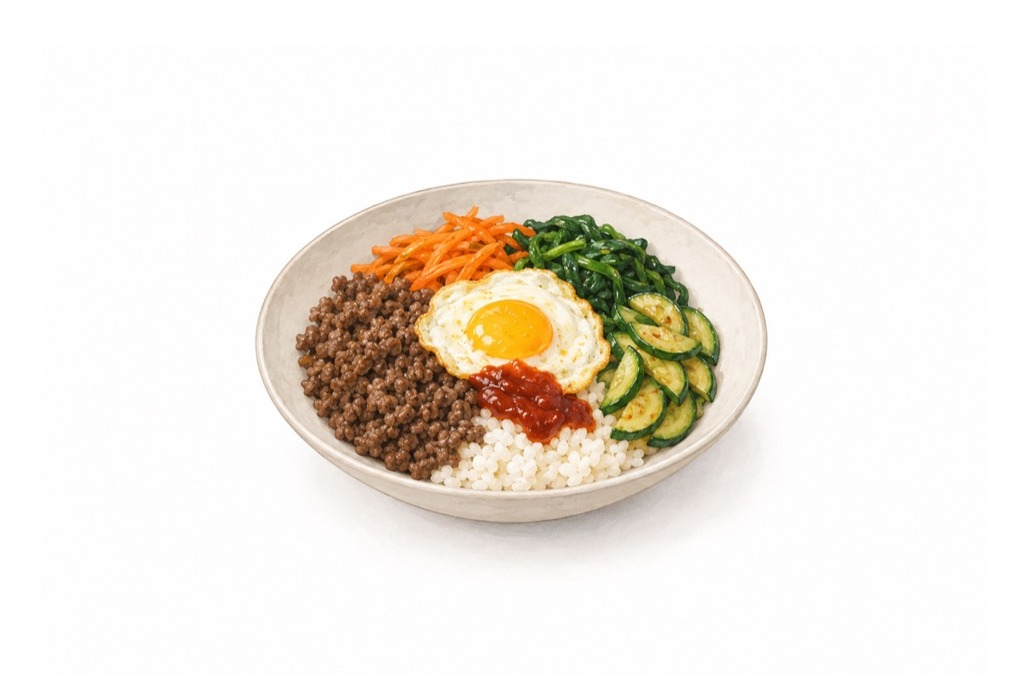
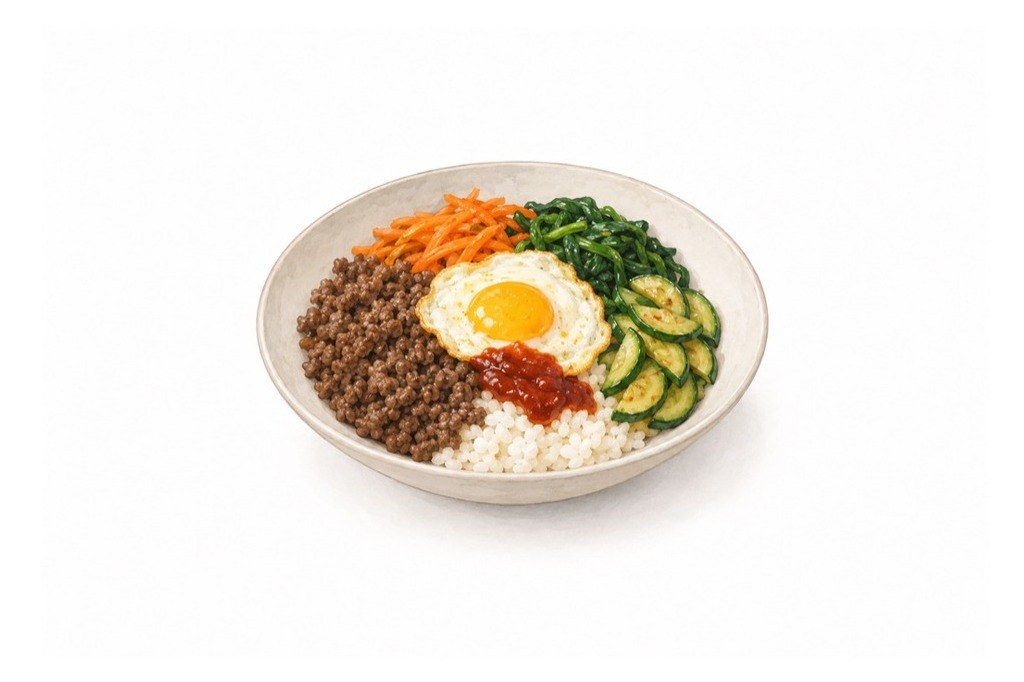
feat(meal-images): Centre the drawing vertically, not the rim (HON-1031)
HON-1024 put the rim row on the frame's centre line. Each planner card
has its own image box, so a tall stack sat high in its card and a deep
bowl, whose widest row is near its top, hung below the centre. The fit
now places the vertical centre of the ink bounding box on the centre
line. The rim still sets the scale and the horizontal centre, so a side
item does not push the plate aside.

The view sent to the vision call keeps the rim anchor, so the size
estimates the post-merge refit sees are unchanged and only the position
moves. The refit sheet copy names the drawing's centre line.

The three landing illustrations are refitted at scale 1 (box centres
were 3.5 to 18.5 px low on a 682 px frame), and the avocado toast hue
is re-extracted as 103, since the move changes what the centre crop sees.

Changed region(s): [[0.25, 0.2155, 0.75, 0.8006]]

diff --git a/src/lib/meal-images/footprint.test.ts b/src/lib/meal-images/footprint.test.ts
@@ -48,7 +48,7 @@ async function frameWith(...rects: Rect[]): Promise<Uint8Array> {
   return new Uint8Array(png)
 }
 
-/** A 180 px rim (0.60 of 300) on rows 50–149, so the rim row is 100 — the frame's centre line. */
+/** A 180 px rim (0.60 of 300) on rows 50–149, so the rim row and the box's centre are 100 — the frame's centre line. */
 const fp = (overrides: Partial<Footprint> = {}): Footprint => ({
   left: 60,
   right: 239,
@@ -67,6 +67,21 @@ const rimCentre = (f: Footprint) => ({
   x: (f.rimLeft + f.rimRight + 1) / 2 / f.frameWidth,
   y: f.rimRow / f.frameHeight,
 })
+
+/** The bounding box's vertical centre in pixels. */
+const boxCentreY = (f: Footprint) => (f.top + f.bottom + 1) / 2
+
+/** A stack 100 px tall on a 20 px plate, drawn high: the box's centre is row 80, the rim row 130. */
+const tallStack: Rect[] = [
+  { left: 120, top: 20, width: 60, height: 100 },
+  { left: 60, top: 120, width: 180, height: 20 },
+]
+
+/** A 10 px rim on a body 120 px deep: the rim sits near the top of the box. */
+const deepBowl: Rect[] = [
+  { left: 60, top: 30, width: 180, height: 10 },
+  { left: 90, top: 40, width: 120, height: 120 },
+]
 
 describe('HON-1024: footprint measurement', () => {
   it('measures a rectangle on white to the pixel, with the rim on its middle row', async () => {
@@ -190,7 +205,7 @@ describe('HON-1024: fit plan', () => {
     }
   })
 
-  it('keeps an image whose rim is within 3.5% of the target width and on the centre line', () => {
+  it('keeps an image whose rim is within 3.5% of the target width and whose box is on the centre line', () => {
     // 174 px = 0.58 exactly; 175 px is 0.6% off and 180 px 3.4%, a 1 cm move of the estimate.
     expect(planFit(fp({ left: 63, right: 237, rimLeft: 63, rimRight: 237 }), dinnerPlate)).toEqual({
       action: 'keep',
@@ -204,10 +219,23 @@ describe('HON-1024: fit plan', () => {
     })
   })
 
-  it('moves a rim at the right width that sits off the centre line', () => {
-    // Right width, but the rim is at 45% of the frame height.
-    const off = fp({ left: 63, right: 237, rimLeft: 63, rimRight: 237, rimRow: 90, top: 40 })
+  it('moves a drawing at the right width whose box sits off the centre line', () => {
+    // Right width, but the box's centre is at 45% of the frame height.
+    const off = fp({ left: 63, right: 237, rimLeft: 63, rimRight: 237, top: 40, bottom: 139 })
     expect(planFit(off, dinnerPlate)).toEqual({ action: 'fit', scale: 0.58 / 0.5833333333333334 })
+  })
+
+  it('judges the position by the box, not the rim (HON-1031)', () => {
+    const rightWidth = { left: 63, right: 237, rimLeft: 63, rimRight: 237 }
+    // The rim far below the centre line, the box on it: already fitted.
+    expect(planFit(fp({ ...rightWidth, rimRow: 140 }), dinnerPlate)).toEqual({
+      action: 'keep',
+      reason: 'already fitted',
+    })
+    // The rim on the centre line, the box 10 px above it: moved.
+    expect(planFit(fp({ ...rightWidth, top: 30, bottom: 149 }), dinnerPlate)).toMatchObject({
+      action: 'fit',
+    })
   })
 
   it('skips a blank frame, a cropped vessel and a scale out of range', () => {
@@ -248,10 +276,17 @@ describe('HON-1024: canonicalForEstimate', () => {
     )
     expect((await canonicalForEstimate(blank, 'image/png')).bytes).toBe(blank)
   })
+
+  it('keeps the rim, not the box, on the centre line, so the size estimate is unchanged by HON-1031', async () => {
+    const shown = await canonicalForEstimate(await frameWith(...tallStack), 'image/png')
+    const f = (await measureFootprint(shown.bytes))!
+    expect(Math.abs(rimCentre(f).y - 0.5)).toBeLessThan(0.01)
+    expect(boxCentreY(f)).toBeLessThan(H / 2 - 10)
+  })
 })
 
 describe('HON-1024: fitFootprint', () => {
-  it('shrinks a wide plate to its width, its rim on the centre line, on a white frame of the same size', async () => {
+  it('shrinks a wide plate to its width, centred, on a white frame of the same size', async () => {
     // 210 px = 0.70, off-centre to the left and the top.
     const bytes = await frameWith({ left: 20, top: 30, width: 210, height: 100 })
 
@@ -272,9 +307,10 @@ describe('HON-1024: fitFootprint', () => {
     const after = await measureFootprint(fitted.bytes)
     expect(after).not.toBeNull()
     expect(rimWidth(after!)).toBeCloseTo(0.58, 2)
-    // The rim's centre on the frame's centre, wherever it was drawn.
+    // The rim's centre on the frame's vertical centre line and the box's
+    // centre on its horizontal one, wherever it was drawn.
     expect(rimCentre(after!).x).toBeCloseTo(0.5, 2)
-    expect(rimCentre(after!).y).toBeCloseTo(0.5, 2)
+    expect(Math.abs(boxCentreY(after!) - H / 2)).toBeLessThanOrEqual(1)
     // The padding is white: the corner pixel is untouched.
     const { data } = await sharp(fitted.bytes).raw().toBuffer({ resolveWithObject: true })
     expect([data[0], data[1], data[2]]).toEqual([255, 255, 255])
@@ -291,19 +327,24 @@ describe('HON-1024: fitFootprint', () => {
     expect(rimWidth((await measureFootprint(side.bytes))!)).toBeCloseTo(0.47, 2)
   })
 
-  it('anchors a tall dish by its rim, so the food rises above the centre line', async () => {
-    // A stack 100 px tall on a 20 px plate: as drawn, the box is centred and the plate sits low.
-    const bytes = await frameWith(
-      { left: 120, top: 40, width: 60, height: 100 },
-      { left: 60, top: 140, width: 180, height: 20 },
-    )
+  it.each([
+    ['a tall stack, its ink far above the rim', tallStack],
+    ['a deep bowl, its ink far below the rim', deepBowl],
+  ])('centres %s by its box, not its rim (HON-1031)', async (_, rects) => {
+    const bytes = await frameWith(...rects)
+    for (const estimate of [dinnerPlate, sidePlate]) {
+      const fitted = await fitFootprint(bytes, 'image/png', estimate)
+      expect(fitted.fit.action).toBe('fit')
 
-    const fitted = await fitFootprint(bytes, 'image/png', dinnerPlate)
+      const after = (await measureFootprint(fitted.bytes))!
+      expect(Math.abs(boxCentreY(after) - H / 2)).toBeLessThanOrEqual(1)
+      expect(rimCentre(after).x).toBeCloseTo(0.5, 2)
+      // The rim still sets the scale.
+      expect(rimWidth(after)).toBeCloseTo(targetWidth(estimate)!, 2)
 
-    const after = await measureFootprint(fitted.bytes)
-    // Within 1% of the frame: a 20 px rim anchors on its middle row, give or take a pixel.
-    expect(Math.abs(rimCentre(after!).y - 0.5)).toBeLessThan(0.01)
-    expect(after!.top / H).toBeLessThan(0.3)
+      const twice = await fitFootprint(fitted.bytes, 'image/png', estimate)
+      expect(twice.fit).toMatchObject({ action: 'keep', reason: 'already fitted' })
+    }
   })
 
   it('enlarges a narrow bowl, cutting what overhangs the frame', async () => {

diff --git a/src/lib/meal-images/footprint.ts b/src/lib/meal-images/footprint.ts
@@ -19,10 +19,12 @@ import type { Vessel, VesselEstimate } from './vessel'
  *
  * The surface is pure white by design (HON-744), so the image can be
  * rescaled about the vessel's rim and padded with white after generation,
- * with no seam. The rim is the anchor, not the drawing's bounding box: the
- * widest row of ink is the rim's horizontal diameter, and it is placed on
- * the frame's centre line, so a tall stack of pancakes rises from the same
- * table level as a flat omelette.
+ * with no seam. The rim sets the scale and the horizontal centre: the
+ * widest row of ink is the rim's horizontal diameter. The vertical centre
+ * is the drawing's bounding box, placed on the frame's centre line
+ * (HON-1031). The rim on that line kept one table level across dishes, but
+ * each card has its own image box, so a tall stack sat high in its card and
+ * a deep bowl, whose widest row is near its top, hung below the centre.
  *
  * The camera's elevation is measured from the rim's front half-ellipse and
  * reported, not corrected: the model picks it per dish (a sandwich is drawn
@@ -61,8 +63,14 @@ export interface FootprintOptions {
   scale: FootprintScale
   /** The vessels that are fitted; any other is left as drawn. */
   fitted: readonly Vessel[]
-  /** Where the rim's horizontal diameter sits, as a fraction of the frame height. */
+  /** Where the vertical anchor sits, as a fraction of the frame height. */
   anchorY: number
+  /**
+   * What is placed at `anchorY`: the centre of the drawing's bounding box,
+   * or the rim's row. The fit uses the box (HON-1031); the view for the
+   * vision call keeps the rim, so its size estimate is unchanged.
+   */
+  anchor: 'box' | 'rim'
   /**
    * A scale outside this range says the footprint is not the vessel: a rim
    * too pale to count would measure only the food and ask for ×1.4 or more.
@@ -77,7 +85,7 @@ export interface FootprintOptions {
    * images for nothing; a 2 cm move still refits.
    */
   tolerance: number
-  /** A rim this close to its anchor, as a fraction of the frame, is not worth a move. */
+  /** A drawing this close to its anchor, as a fraction of the frame, is not worth a move. */
   positionTolerance: number
 }
 
@@ -102,6 +110,7 @@ export const DEFAULT_FOOTPRINT_OPTIONS: FootprintOptions = {
   scale: FOOTPRINT_SCALE,
   fitted: ['plate', 'bowl'],
   anchorY: 0.5,
+  anchor: 'box',
   minScale: 0.7,
   maxScale: 1.2,
   tolerance: 0.035,
@@ -137,6 +146,9 @@ export async function canonicalForEstimate(
   const reference = { vessel: 'plate', diameterCm: options.scale.referenceCm } as const
   const fitted = await fitFootprint(bytes, mediaType, reference, {
     ...options,
+    // The rim on the centre line, as in HON-1024: the view only feeds the
+    // size estimate, and an unchanged view keeps the estimate unchanged.
+    anchor: 'rim',
     // Any width is canonical here, so a cropped or odd drawing is still sent.
     minScale: 0.25,
     maxScale: 4,
@@ -266,11 +278,16 @@ export type FitDecision =
       reason: 'nothing drawn' | 'the footprint touches the frame edge' | 'scale out of range'
     }
 
-/** Where the rim's centre lands after `scale`, and where it should be, in pixels. */
-function rimOffset(fp: Footprint, scale: number, options: FootprintOptions) {
+/**
+ * How far to move the image after `scale`, in pixels: the rim's centre to the
+ * frame's centre horizontally, so a side item does not push the plate aside,
+ * and the anchor to `anchorY` vertically.
+ */
+function anchorOffset(fp: Footprint, scale: number, options: FootprintOptions) {
   const cx = (fp.rimLeft + fp.rimRight + 1) / 2
+  const cy = options.anchor === 'rim' ? fp.rimRow : (fp.top + fp.bottom + 1) / 2
   const dx = fp.frameWidth / 2 - cx * scale
-  const dy = fp.frameHeight * options.anchorY - fp.rimRow * scale
+  const dy = fp.frameHeight * options.anchorY - cy * scale
   return { dx, dy }
 }
 
@@ -296,9 +313,9 @@ export function planFit(
   if (scale < options.minScale || scale > options.maxScale) {
     return { action: 'skip', reason: 'scale out of range' }
   }
-  // "Already fitted" is judged as drawn: a rim at the anchor would still
+  // "Already fitted" is judged as drawn: a drawing at the anchor would still
   // move by its centre times (1 - scale) if the near-1 scale were applied.
-  const { dx, dy } = rimOffset(footprint, 1, options)
+  const { dx, dy } = anchorOffset(footprint, 1, options)
   if (
     Math.abs(scale - 1) <= options.tolerance &&
     Math.abs(dx) <= options.positionTolerance * footprint.frameWidth &&
@@ -334,8 +351,9 @@ export interface FittedImage {
 
 /**
  * Scale the image about its rim so the rim is the width its vessel's size
- * calls for, and place the rim's centre on the frame's centre line, on a
- * white canvas of the original size. The result is a PNG whatever came in.
+ * calls for, and centre the drawing in the frame: the rim's centre
+ * horizontally, the bounding box's centre vertically, on a white canvas of
+ * the original size. The result is a PNG whatever came in.
  * An image that is left as drawn comes back as it was, bytes and media type
  * both.
  */
@@ -374,7 +392,7 @@ export async function fitFootprint(
   const { frameWidth: W, frameHeight: H } = footprint
   const scaledW = Math.max(1, Math.round(W * scale))
   const scaledH = Math.max(1, Math.round(H * scale))
-  const { dx, dy } = rimOffset(footprint, scale, options)
+  const { dx, dy } = anchorOffset(footprint, scale, options)
   const left = Math.round(dx)
   const top = Math.round(dy)
 

diff --git a/scripts/refit-meal-images.ts b/scripts/refit-meal-images.ts
@@ -247,8 +247,9 @@ export const fileNameFor = (image: RefitImage): string => {
 
 /**
  * Every image as a before/after pair, each under dashed guides at the
- * width its vessel's size calls for and the rim's centre line, so a plate
- * that still misses them is seen at once. The "after" of an image left as drawn is the stored URL again.
+ * width its vessel's size calls for and the frame's centre line, where the
+ * drawing's vertical centre belongs (HON-1031), so a plate that still
+ * misses them is seen at once. The "after" of an image left as drawn is the stored URL again.
  */
 export function renderSheet(
   images: RefitImage[],
@@ -296,7 +297,7 @@ figcaption{font-size:12px;color:#555;padding:4px 0 0}
 pre{background:#fff;border:1px solid #ddd;padding:12px;display:inline-block}
 </style></head><body>
 <h1>Meal footprints — as drawn and fitted</h1>
-<p>Run ${esc(meta.startedAt)}. ${images.length} stored image(s); ${rescaled(images).length} refit; ${failed.length} could not be read or classified. Dashed guides mark the width each vessel's size calls for, and the rim's centre line.</p>
+<p>Run ${esc(meta.startedAt)}. ${images.length} stored image(s); ${rescaled(images).length} refit; ${failed.length} could not be read or classified. Dashed guides mark the width each vessel's size calls for, and the centre line the drawing is centred on.</p>
 <pre>${esc(meta.summary)}</pre>
 ${failed.length > 0 ? `<p>Not fitted: ${failed.map((i) => esc(i.meals.map((m) => m.name).join(', '))).join('; ')}</p>` : ''}
 <div class="grid">

diff --git a/src/components/landing/LandingShowcase.tsx b/src/components/landing/LandingShowcase.tsx
@@ -17,7 +17,7 @@ import type { MealType, ProteinType } from '@/generated/prisma/enums'
  * The three illustrations are copies of generated meal images, committed under
  * `public/landing/` so the page never depends on a household's data or a blob
  * store. Their hues are what `extractHue` returns for these files (re-extracted
- * for HON-1009's rule), so the cards tint exactly as they do in the app. Names and descriptions come from the catalog,
+ * for HON-1009's rule, and after HON-1031's refit), so the cards tint exactly as they do in the app. Names and descriptions come from the catalog,
  * so an Estonian visitor reads an Estonian day.
  */
 const SHOWCASE_MEALS: ReadonlyArray<{
@@ -32,7 +32,7 @@ const SHOWCASE_MEALS: ReadonlyArray<{
     mealType: 'breakfast',
     proteinType: 'eggs',
     imageUrl: '/landing/avocado-toast-poached-egg.jpg',
-    imageHue: 104,
+    imageHue: 103,
   },
   {
     key: 'lunch',

diff --git a/docs/DEPLOYMENT.md b/docs/DEPLOYMENT.md
@@ -298,17 +298,17 @@ pnpm meal-images:rehue --confirm
 
 ### Meal footprint backfill
 
-Every vessel in a meal illustration is drawn to one scale: a 27 cm dinner plate is 0.58 of the frame width and a smaller vessel narrower by its diameter, with the rim's centre line at mid-height ([DESIGN.md → Imagery](DESIGN.md#imagery)). `generateMealImage` fits each image it keeps: a `REVIEW_MODEL` vision call names the vessel and estimates its diameter from the food on it, and `src/lib/meal-images/footprint.ts` scales the drawing about the rim and pads it with white (HON-1024). Images stored before that, or before a change to `FOOTPRINT_SCALE`, keep the width they were drawn at until `scripts/refit-meal-images.ts` refits them from the stored file. Nothing is regenerated, so the only AI spend is the vessel samples, about $0.018 per distinct image; it needs `ANTHROPIC_API_KEY`. It reads every meal with `imageStatus = ready` and an `imageUrl`, fetches each distinct image once (a household's copy of a global meal shares its image), and leaves an image it cannot read or classify as it is. The size estimate is not stored, so a rerun asks again. The model is shown every image with its rim at one width, so the answer does not depend on what the last fit did, and it is asked three times and settled on the median, because one answer moved by 2 cm between runs on a fifth of the images. Between two reruns on 51 images the median moved on 6, four of them by 1 cm, which is inside the fit's tolerance; a 2 cm move refits the image by a few percent.
+Every vessel in a meal illustration is drawn to one scale: a 27 cm dinner plate is 0.58 of the frame width and a smaller vessel narrower by its diameter, with the drawing centred top to bottom ([DESIGN.md → Imagery](DESIGN.md#imagery)). `generateMealImage` fits each image it keeps: a `REVIEW_MODEL` vision call names the vessel and estimates its diameter from the food on it, and `src/lib/meal-images/footprint.ts` scales the drawing about the rim and pads it with white (HON-1024). Images stored before that, or before a change to `FOOTPRINT_SCALE`, keep the width they were drawn at until `scripts/refit-meal-images.ts` refits them from the stored file. Nothing is regenerated, so the only AI spend is the vessel samples, about $0.018 per distinct image; it needs `ANTHROPIC_API_KEY`. It reads every meal with `imageStatus = ready` and an `imageUrl`, fetches each distinct image once (a household's copy of a global meal shares its image), and leaves an image it cannot read or classify as it is. The size estimate is not stored, so a rerun asks again. The model is shown every image with its rim at one width, so the answer does not depend on what the last fit did, and it is asked three times and settled on the median, because one answer moved by 2 cm between runs on a fifth of the images. Between two reruns on 51 images the median moved on 6, four of them by 1 cm, which is inside the fit's tolerance; a 2 cm move refits the image by a few percent.
 
 **When to run it:** after a change to the scale or to the measurement, on staging and then production. Meals drawn after the change are already fitted. Running it twice is a no-op: a fitted image measures at its target and is kept.
 
-**1. Dry run (writes nothing).** Writes the fitted files and a contact sheet to `.temp/meal-footprints/<timestamp>/index.html`: each image as drawn and as fitted, under dashed guides at the width its size calls for and the rim line, with the vessel and its diameter on each card, plus a per-vessel summary of the sizes, how many images move and the range of camera elevations the plates were drawn at.
+**1. Dry run (writes nothing).** Writes the fitted files and a contact sheet to `.temp/meal-footprints/<timestamp>/index.html`: each image as drawn and as fitted, under dashed guides at the width its size calls for and the frame's centre line, with the vessel and its diameter on each card, plus a per-vessel summary of the sizes, how many images move and the range of camera elevations the plates were drawn at.
 
 ```bash
 pnpm meal-images:refit
 ```
 
-**2. Review.** Open the sheet. Every vessel fills its guides with its rim on the horizontal line, and a side plate's guides are narrower than a dinner plate's. Check the diameter on a card that looks wrong for its food: a bagel sits on a 20 to 24 cm plate, a shakshuka on 26 to 27. The camera elevation on each plate's card is reported, not corrected: a plate far from the others (most sit between 35° and 44°) can only be redrawn.
+**2. Review.** Open the sheet. Every vessel fills its guides with the drawing centred on the horizontal line, and a side plate's guides are narrower than a dinner plate's. Check the diameter on a card that looks wrong for its food: a bagel sits on a 20 to 24 cm plate, a shakshuka on 26 to 27. The camera elevation on each plate's card is reported, not corrected: a plate far from the others (most sit between 35° and 44°) can only be redrawn.
 
 **3. Write, on staging and then production.** Point the environment at the target: its `DATABASE_URL`, plus Blob credentials for the **same** environment, exactly as for a publish (above). It checks the Blob credentials, asks for the database host to be typed back (`--yes=<host>` does the same non-interactively), then for each rescaled image uploads the fitted file through `putMealImage` to a new URL, moves `imageUrl` for every meal on the old URL with `updatedAt` pinned, and deletes the old blob once every meal on it has moved. `imageHue` does not change: the hue rule drops white and grey pixels, so scale does not affect it. A meal whose image or content changed since it was read is skipped and picked up by a rerun.
 
@@ -316,7 +316,7 @@ pnpm meal-images:refit
 pnpm meal-images:refit --confirm
 ```
 
-**The landing page is not in the database.** The three illustrations in `public/landing/` were fitted by hand in HON-1024 (`fitFootprint`, then JPEG at quality 92). After a target change, refit them the same way in the PR.
+**The landing page is not in the database.** The three illustrations in `public/landing/` were fitted by hand in HON-1024 (`fitFootprint`, then JPEG at quality 92) and moved to the box-centre anchor in HON-1031 (`fitFootprint` with the diameter whose target is the rim's current width, so the scale is 1). After a target or anchor change, refit them the same way in the PR, and re-extract their hues for `LandingShowcase.tsx`: a move changes what the centre crop sees.
 
 `pnpm meal-images:refit --help` lists every flag.
 

diff --git a/docs/DESIGN.md b/docs/DESIGN.md
@@ -143,7 +143,7 @@ grep -rnE "transition-all|ease-in([\"' ]|$)|duration-([4-9][0-9]{2}|[0-9]{4,})" 
 The product supplies one piece of content imagery: a generated illustration of each meal. Photos a user attaches themselves (the recipe photos in `AttachImages`) are their input, not our imagery, and these rules do not cover them. The illustration is decoration. The meal name, ingredients, and steps carry everything the user needs, so the image never carries information and never gets in the way. It also gives each meal a colour: the card and hero take a tint from the food in the picture, so a week of meals reads as a week of different dishes before anyone reads a name. Decided in HON-726 (the image) and HON-743 (the hue, the tinted surface, and the blend).
 
 - **One style, one source.** The only content imagery is the generated meal illustration, produced by the single prompt in `src/lib/meal-images/prompt.ts`: V4, a warm, stylised, gouache-like illustration of one serving of the finished dish on a pure white, flat surface, the plate taking about half the width of a 3:2 frame with empty space on every side. No stock photos, no second illustration style, no hand-placed decorative images, and no AI imagery anywhere else in the product. A second style or source is a second visual language the rest of the guide was not written for. The white surface is load-bearing: it is what lets the image blend into a tinted card (below).
-- **Dishware to one scale.** A 27 cm dinner plate is 0.58 of the frame width, and every other vessel is narrower by its diameter to the power 0.7: a 22 cm side plate or grain bowl 0.50, a 15 cm cereal bowl 0.38. True scale made a cereal bowl too small on a card; one width for every plate made the side plate under a bagel as wide as the dinner plate under a shakshuka, and the bagel with it. The rim's centre line sits on the frame's horizontal centre, so a tall stack rises from the same table level as a flat dish. A glass, board or anything else is left as drawn. The size comes from the vision call in `src/lib/meal-images/vessel.ts`, which judges the rim's diameter from the food on it (a bagel is 10 cm); pixels cannot tell a 20 cm plate from a 27 cm one. The model is shown every vessel at the same width, so it has only the food to go on, and asked three times with the median taken, because one answer moved by 2 cm between runs on a fifth of the images. `src/lib/meal-images/footprint.ts` then scales the drawing about the rim and pads it with white, which the white surface makes seamless (HON-1024). The camera's elevation is not corrected: the model draws a sandwich from lower down than an omelette (32° to 44° over the first plates), an explicit angle in the prompt did not narrow that, and a squash of the pixels would distort the food. The fit records it per image so an outlier can be redrawn. The scale is `FOOTPRINT_SCALE`, and a change to it is applied to stored images by the backfill in [DEPLOYMENT.md → Meal footprint backfill](DEPLOYMENT.md#meal-footprint-backfill).
+- **Dishware to one scale.** A 27 cm dinner plate is 0.58 of the frame width, and every other vessel is narrower by its diameter to the power 0.7: a 22 cm side plate or grain bowl 0.50, a 15 cm cereal bowl 0.38. True scale made a cereal bowl too small on a card; one width for every plate made the side plate under a bagel as wide as the dinner plate under a shakshuka, and the bagel with it. The rim's centre sits on the frame's vertical centre line, and the drawing's bounding box is centred top to bottom (HON-1031). The rim on the horizontal centre line kept one table level across dishes, but each card has its own image box, so a tall stack sat high in its card and a deep bowl, whose rim is near its top, hung low. The rim still sets the scale. A glass, board or anything else is left as drawn. The size comes from the vision call in `src/lib/meal-images/vessel.ts`, which judges the rim's diameter from the food on it (a bagel is 10 cm); pixels cannot tell a 20 cm plate from a 27 cm one. The model is shown every vessel at the same width, so it has only the food to go on, and asked three times with the median taken, because one answer moved by 2 cm between runs on a fifth of the images. `src/lib/meal-images/footprint.ts` then scales the drawing about the rim and pads it with white, which the white surface makes seamless (HON-1024). The camera's elevation is not corrected: the model draws a sandwich from lower down than an omelette (32° to 44° over the first plates), an explicit angle in the prompt did not narrow that, and a squash of the pixels would distort the food. The fit records it per image so an outlier can be redrawn. The scale is `FOOTPRINT_SCALE`, and a change to it is applied to stored images by the backfill in [DEPLOYMENT.md → Meal footprint backfill](DEPLOYMENT.md#meal-footprint-backfill).
 - **Meal hue.** Every meal with an image has an `imageHue`: an integer from 0 to 360, the OKLCH hue of its food, extracted once when the image is generated and stored on the meal. It is the food's most **distinctive** colour, not its most common one: each hue bin's share of the meal's chroma is scored against `HUE_BASELINE` (the mean share over all stored meal images, in `src/lib/meal-images/colour.ts`), and the bin that most exceeds it wins, provided it holds at least 15% of the meal's chroma. Cooked food in the warm gouache style is mostly orange, so the most common colour gave a week of cards one amber tint; this way a salad gets its green and a tomato dish its red, while a brown stew stays orange because orange is all it has. It is the **only** per-meal colour variable. Lightness and chroma are never per meal, and nothing else about the meal (type, cuisine, tags) picks a colour. Components receive it as the `--meal-hue` CSS variable.
 - **Tinted surfaces.** A meal card and the whole cook view take their background from `oklch(L C var(--meal-hue))`, with L and C fixed tokens:
 
